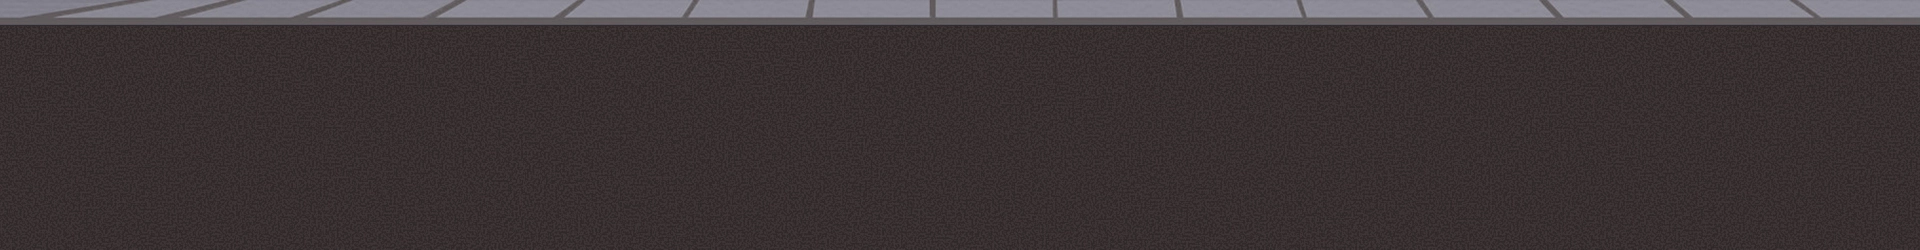
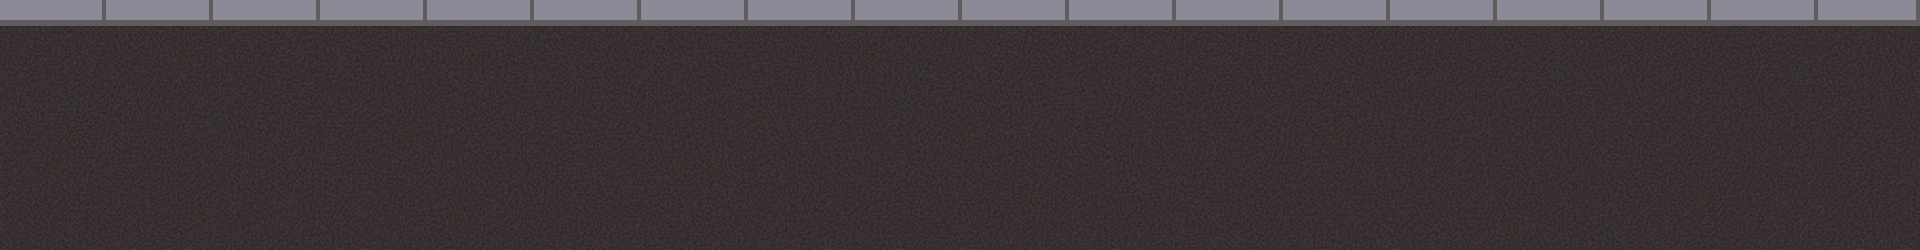
changed street background

Changed region(s): [[0.0, 0.0, 1.0, 0.112], [0.8438, 0.0, 0.875, 0.028]]

diff --git a/index.html b/index.html
@@ -14,7 +14,7 @@
             --snow-h:50px;
             --mountains-k:0.85;
             --sun-k:0.90;
-            --char-drop:-34vh;
+            --char-drop:-33.25vh;
             --mountains-lead:0px;
             --houses-lead:0px;
             --first-char-extra-gap:0px;
@@ -544,7 +544,7 @@
           /*  g.style.backgroundImage = 'url("./assets/street_ground.jpg")';*/
             g.style.backgroundImage = 'image-set(' +
                 'url("./assets/street_ground.webp") type("image/webp") 1x, ' +
-                'url("./assets/street_ground.jpg") type("image/jpeg") 1x' +
+                'url("./assets/street_ground.png") type("image/jpeg") 1x' +
                 ')';
         }
     }
